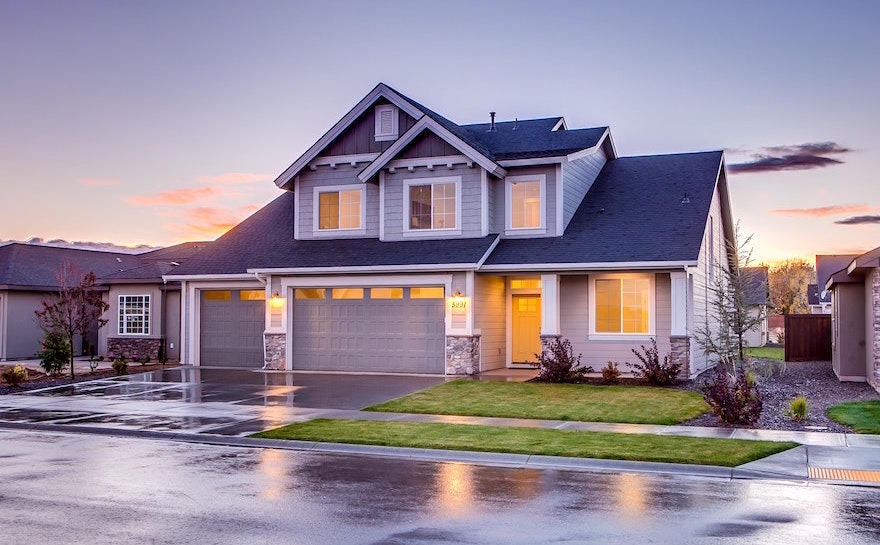
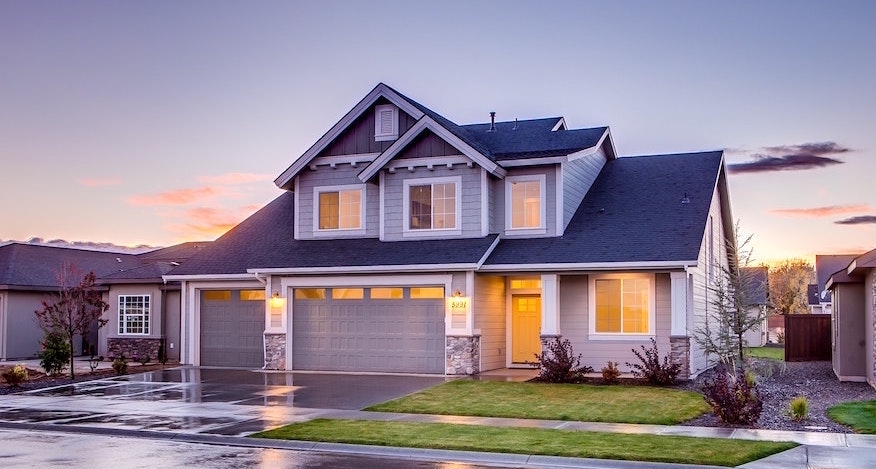
resize images

diff --git a/public/stylesheets/style.css b/public/stylesheets/style.css
@@ -22,6 +22,18 @@ address {
   float: right;
 }
 
+.nav-link {
+  font-size: 1.75rem;
+}
+
 .resize-img {
   height: 500px;
+}
+
+.carousel-control-prev-icon {
+  margin-top: 50%;
+}
+
+.carousel-control-next-icon {
+  margin-top: 50%;
 }
